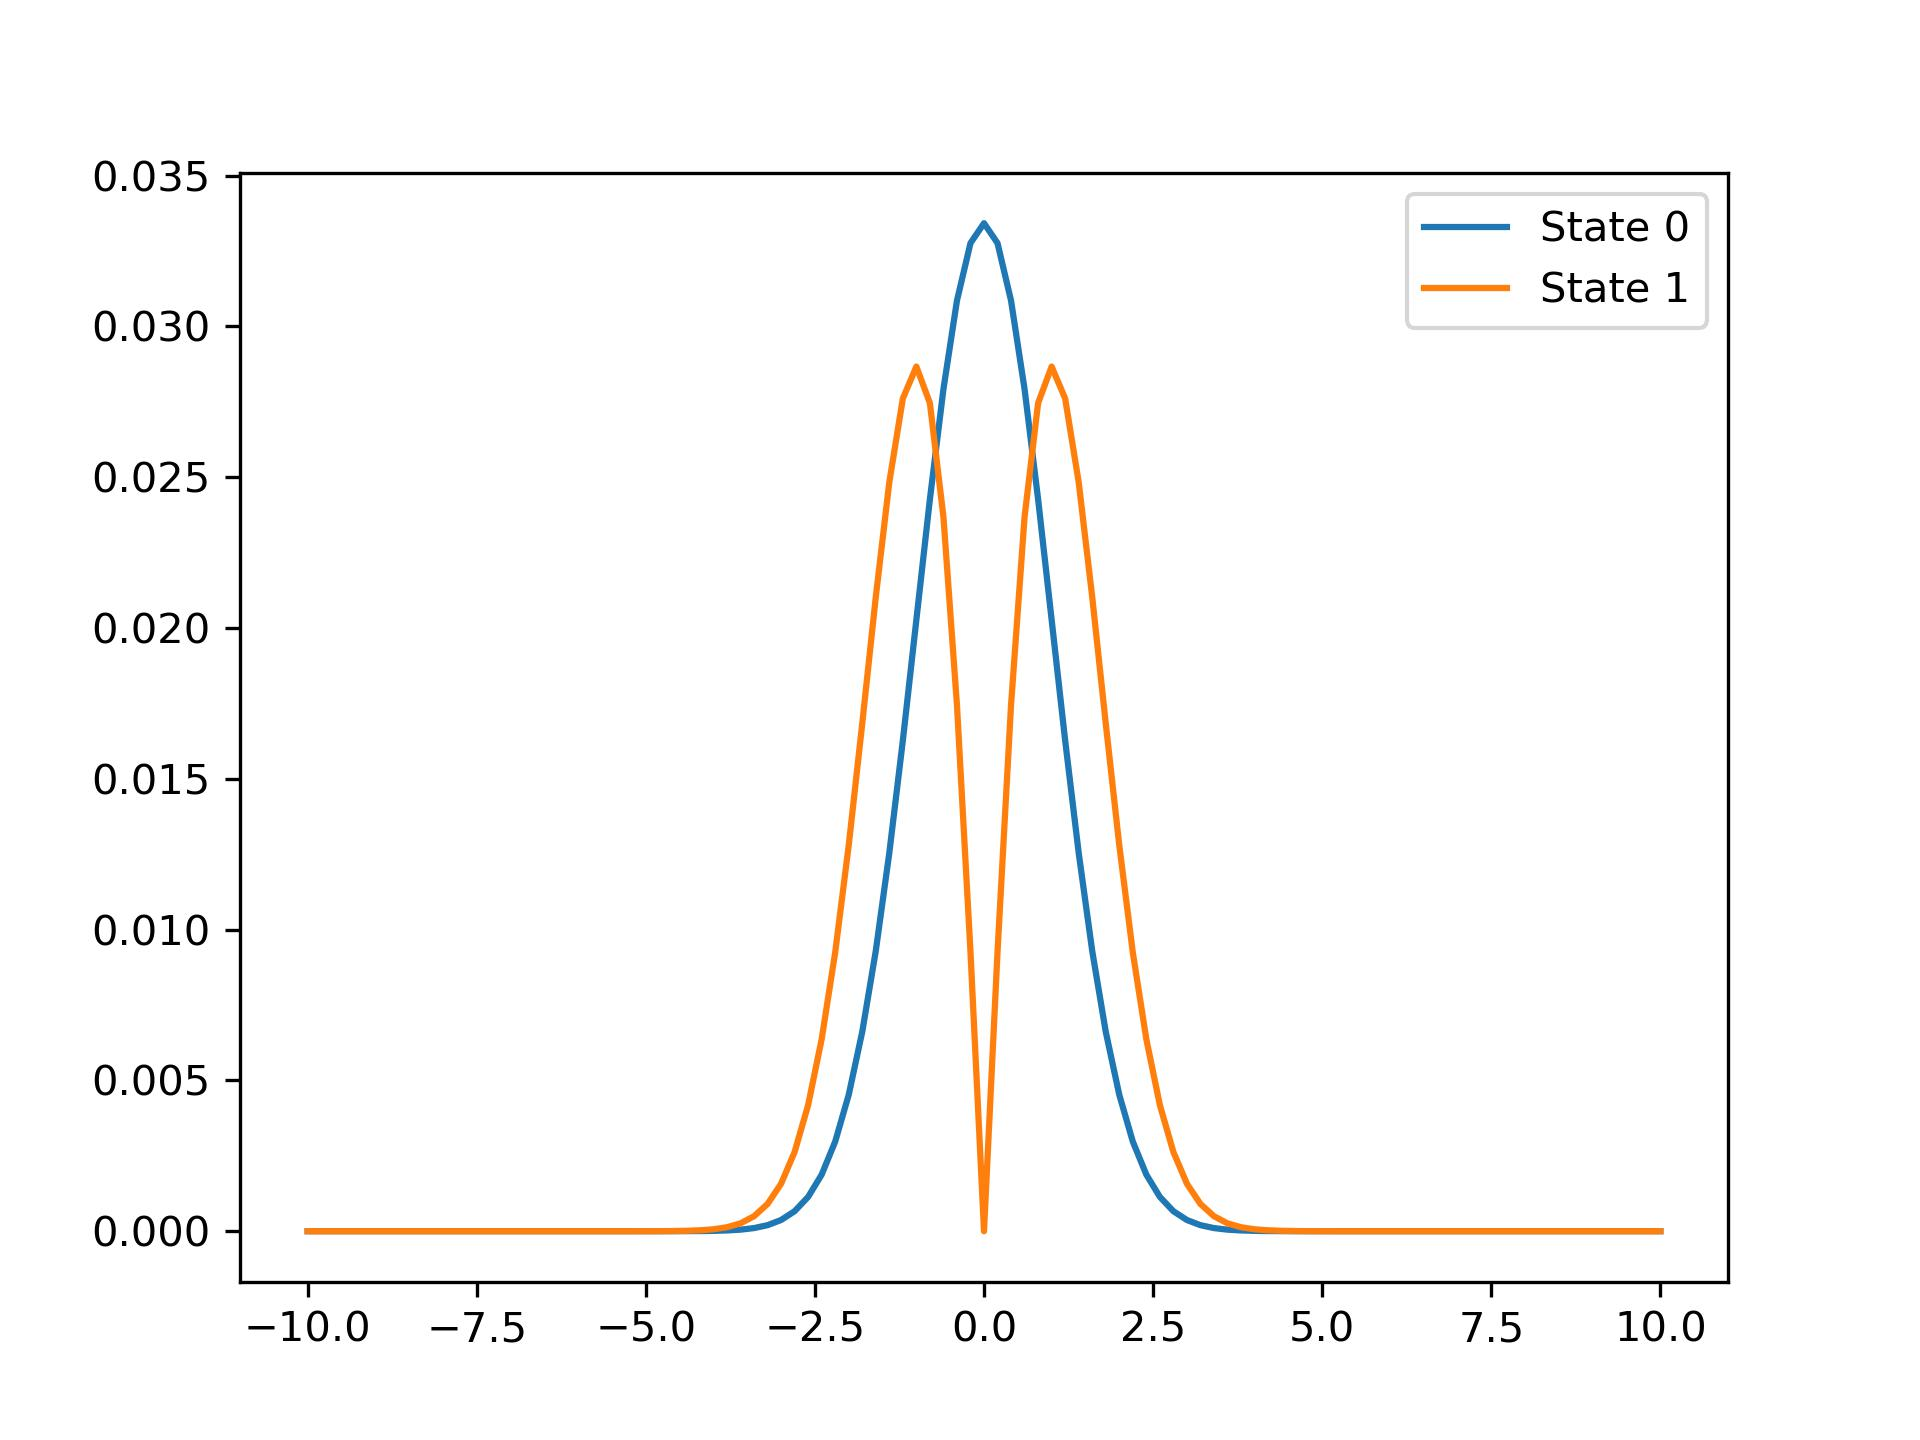
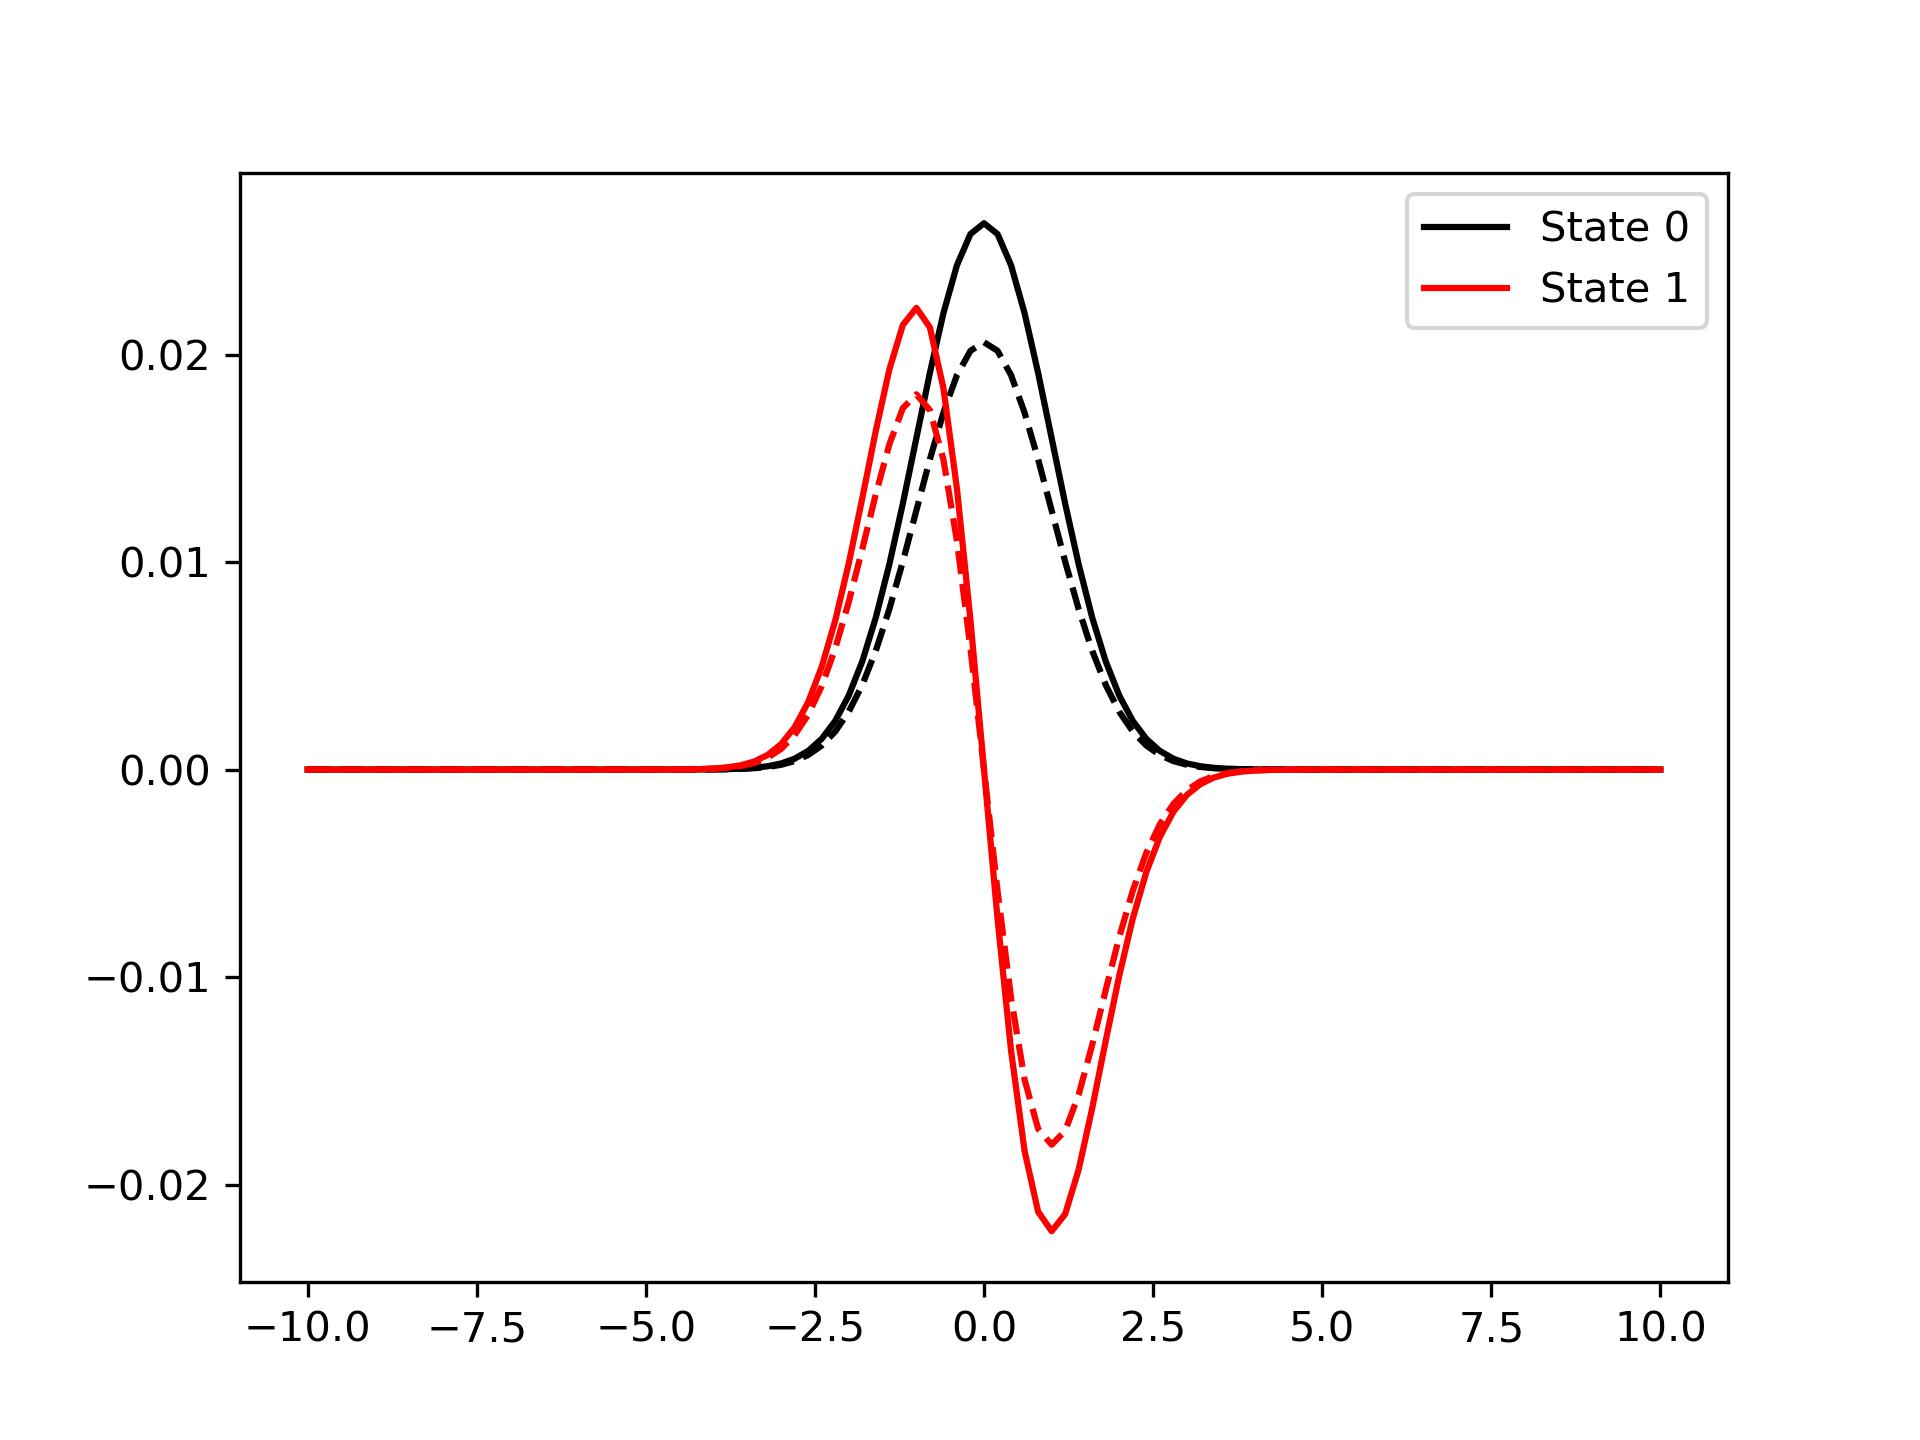
Updated real-space wfn from p-space code

diff --git a/notes/codes/Chapter_7/7.1_Schrodinger_Equation_1D/2_Momentum_Space_Representation.py b/notes/codes/Chapter_7/7.1_Schrodinger_Equation_1D/2_Momentum_Space_Representation.py
@@ -61,8 +61,18 @@ def plot_wavefunctions( U ):
     plt.savefig(f"{DATA_DIR}/PSI_k.jpg", dpi=300)
     plt.clf()
 
+    PSI_x = np.zeros( (Nx, Nx), dtype=complex )
+    phase = np.exp( 1j * kGRID * XMIN )
+    for state in range( Nx ):
+        PSI_x[:,state]  = phase * get_iFFT( U[:,state] )
+        if ( state == 0 ):
+            SIGN        = np.sign( np.sum( PSI_x[:,state] ) )
+        PSI_x[:,state] *= SIGN
+
+    color_list = ["black", "red"]
     for state in range( 2 ):
-        plt.plot( xGRID, np.abs(get_iFFT(U[:,state])), label=f"State {state}" )
+        plt.plot( xGRID, PSI_x[:,state].real, "-", c=color_list[state], label=f"State {state}" )
+        plt.plot( xGRID, PSI_x[:,state].imag, "--", c=color_list[state] )
     plt.legend()
     plt.savefig(f"{DATA_DIR}/PSI_x.jpg", dpi=300)
     plt.clf()
